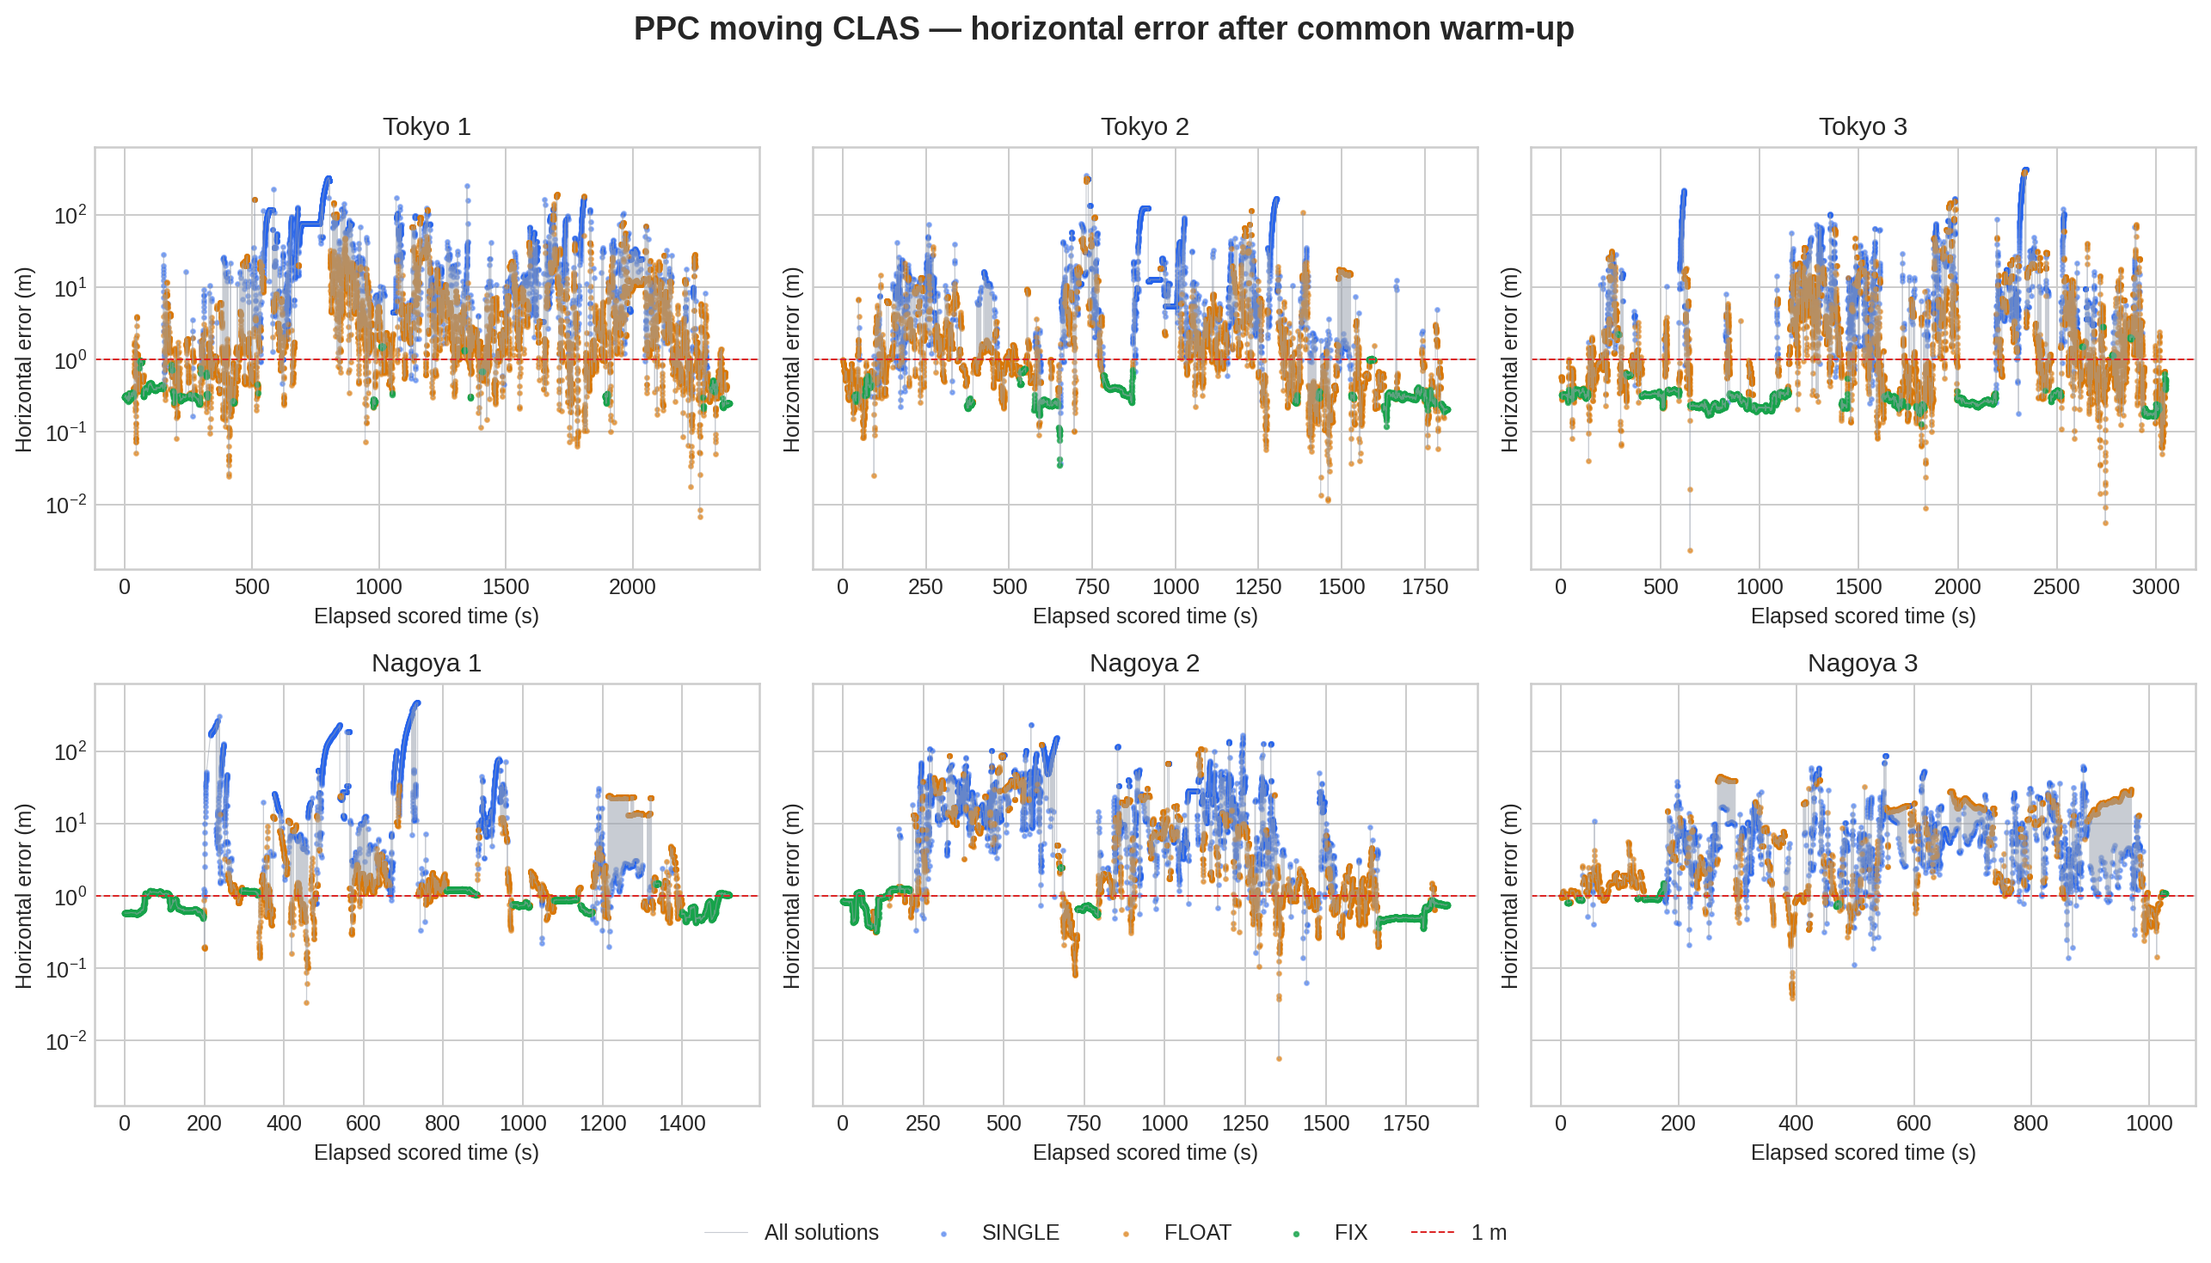
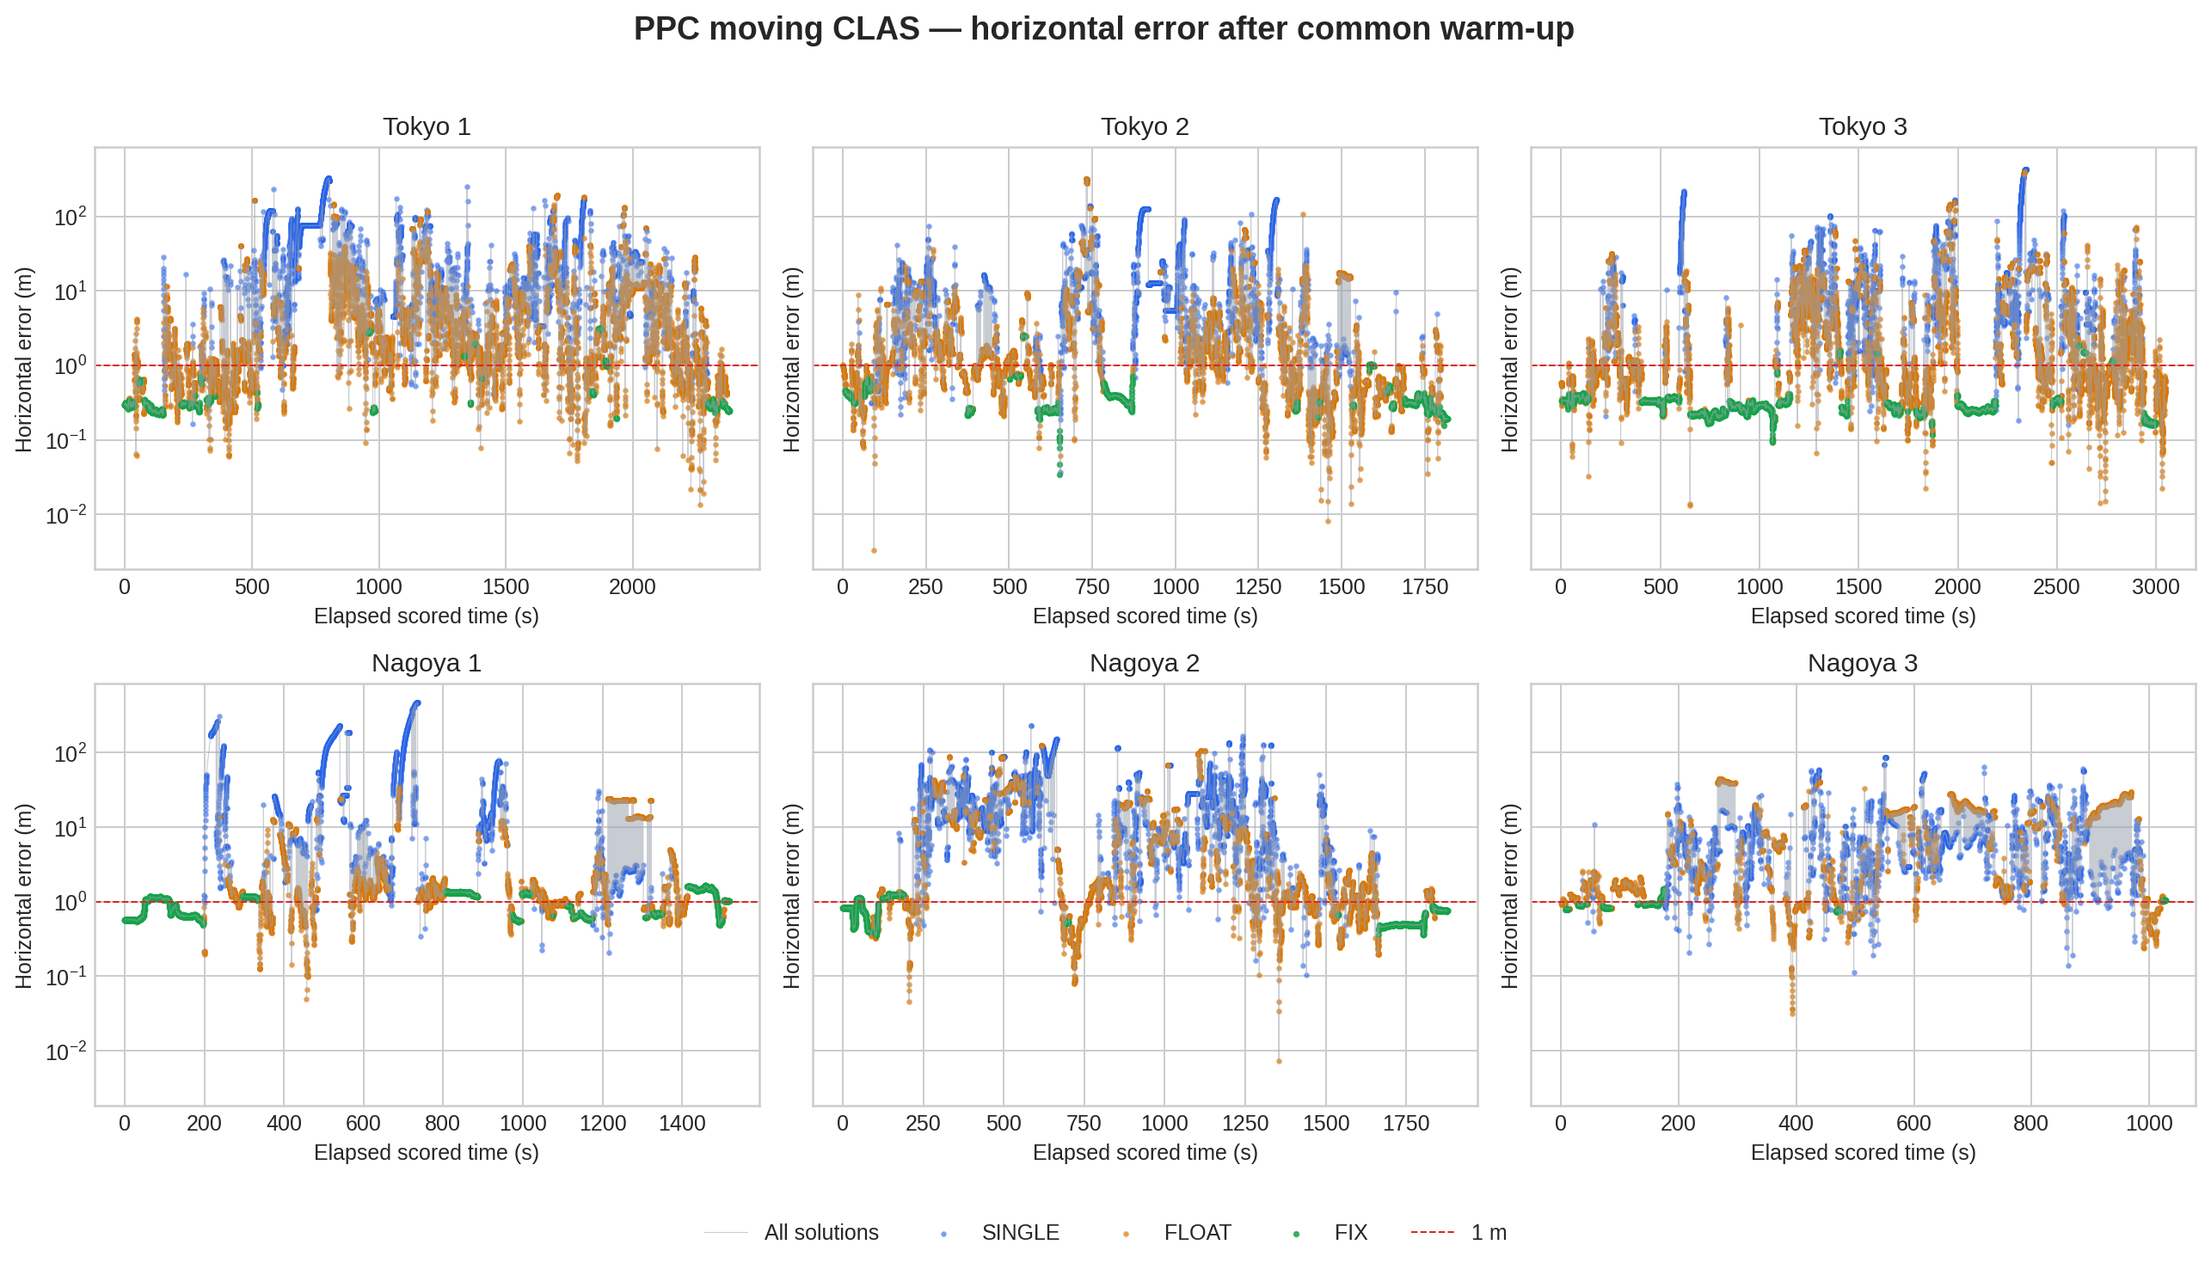
Improve CLAS float recovery from bad seeds

diff --git a/src/algorithms/ppp_clas_epoch.cpp b/src/algorithms/ppp_clas_epoch.cpp
@@ -64,6 +64,10 @@ constexpr double kMrtklibPhaseResidualSigmaGate = 2.0;
 // (pos2-rejdiffpse -> opt.maxdiffp, pos2-poserrcnt; mrtk_ppp_rtk.c:2333-2352)
 constexpr double kMrtklibMaxSppDivergenceM = 10.0;
 constexpr int kMrtklibMaxSppDivergenceEpochs = 5;
+// A candidate that failed valsol-equivalent validation is weaker evidence than
+// an accepted SPP seed. Use it only to recover a catastrophically stale FLOAT
+// state, not to turn ordinary urban tens-of-metres disagreement into a reset.
+constexpr double kClasRejectedMaxdiffRecoveryM = 250.0;
 // Keep a bounded recovery marker after raw maxdiff. It no longer suppresses
 // all AR attempts; recovery candidates receive stricter row-count and ratio
 // validation below.
@@ -95,9 +99,9 @@ constexpr double kClasRejectedOutputTrustedLimitM = 150.0;
 // exactly the gap real MRTKLIB's own gate cannot see either, and is the
 // gap this guard closes. Failing either check marks the seed invalid,
 // which reuses the filter's existing seed-unavailable handling (clock
-// coasting instead of the every-epoch hard clock reseed, and skipping the
-// maxdiffp position/filter reset below) instead of introducing new state
-// machinery.
+// coasting instead of the every-epoch hard clock reseed). The finite rejected
+// candidate remains available only to the counted MRTKLIB maxdiffp recovery
+// below; it is never an ordinary filter seed.
 constexpr std::array<double, 30> kMrtklibChiSquare001Table = {
     10.8, 13.8, 16.3, 18.5, 20.5, 22.5, 24.3, 26.1, 27.9, 29.6,
     31.3, 32.9, 34.5, 36.1, 37.7, 39.3, 40.8, 42.3, 43.8, 45.3,
@@ -922,6 +926,8 @@ PositionSolution PPPProcessor::processEpochCLAS(const ObservationData& obs,
     PositionSolution clas_continuity_output;
     bool has_clas_continuity_output = false;
     bool clas_rejected_seed_output_prepared = false;
+    bool has_clas_validation_rejected_candidate = false;
+    bool clas_seed_validation_failed = false;
     if (clas_mrtklib_parity) {
         const auto original_spp_config = spp_processor_.getSPPConfig();
         auto clas_spp_config = original_spp_config;
@@ -990,6 +996,7 @@ PositionSolution PPPProcessor::processEpochCLAS(const ObservationData& obs,
         const bool clas_seed_dof_failed =
             seed.isValid() && clasSeedLacksRedundancy(seed);
         const PositionSolution clas_validation_rejected_candidate = seed;
+        has_clas_validation_rejected_candidate = seed.isValid();
         // MRTKLIB's estpos() writes the converged current-epoch sol.rr and
         // sol.time before valsol() checks chi-square.  If valsol() then
         // returns false, dynamics mode still enters ppp_rtk_pos() with that
@@ -997,8 +1004,9 @@ PositionSolution PPPProcessor::processEpochCLAS(const ObservationData& obs,
         // The full six-run gate showed that admitting ordinary chi-square
         // failures to the filter helps Tokyo 2 but regresses Nagoya 2 all-
         // solution RMS and FIX rate. Keep both validation failures out of
-        // filter/maxdiff state; a bounded output-only path below can still
-        // publish their current SPP coordinates without changing lifecycle.
+        // ordinary filter admission. The counted maxdiffp path below still
+        // sees the finite candidate, matching MRTKLIB's sol.rr lifecycle;
+        // a bounded output-only path can also publish it without admission.
         const bool clas_masked_spp_admission_failed =
             !seed.isValid() || clas_seed_chi_square_failed ||
             clas_seed_dof_failed;
@@ -1127,7 +1135,7 @@ PositionSolution PPPProcessor::processEpochCLAS(const ObservationData& obs,
         // 4.2 km/17 km rank-collapse jumps; the second prevents a sequence of
         // individually small steps from drifting unboundedly (observed on
         // Nagoya 2).
-        const bool clas_seed_validation_failed =
+        clas_seed_validation_failed =
             clas_seed_chi_square_failed || clas_seed_dof_failed;
         if (clas_seed_validation_failed &&
             has_clas_last_rejected_output_) {
@@ -2113,30 +2121,68 @@ PositionSolution PPPProcessor::processEpochCLAS(const ObservationData& obs,
     // with dynamics on (benchmark clas.toml: dynamics=true + pseudorange_diff);
     // without it the dynamics filter can enter a rejection spiral and coast
     // kilometers away on the velocity states.
+    const PositionSolution* clas_maxdiff_seed = nullptr;
+    bool clas_maxdiff_uses_validation_rejected_candidate = false;
+    if (seed.isValid()) {
+        clas_maxdiff_seed = &seed;
+    } else {
+        double rejected_filter_spp_distance_m =
+            std::numeric_limits<double>::quiet_NaN();
+        if (has_clas_validation_rejected_candidate && filter_initialized_ &&
+            filter_state_.pos_index >= 0 &&
+            filter_state_.pos_index + 2 < filter_state_.state.size()) {
+            rejected_filter_spp_distance_m =
+                (filter_state_.state.segment<3>(filter_state_.pos_index) -
+                 seed.position_ecef)
+                    .norm();
+        }
+        if (ppp_shared::clasMaxdiffCanUseValidationRejectedCandidate(
+                clas_mrtklib_parity, clas_seed_validation_failed,
+                has_clas_validation_rejected_candidate,
+                rejected_filter_spp_distance_m,
+                kClasRejectedMaxdiffRecoveryM)) {
+            // estpos() stores its finite current-epoch solution in sol.rr
+            // before MRTKLIB's valsol() chi-square/redundancy rejection.
+            // Dynamics still reaches the maxdiffp guard with that position,
+            // so cntdiffp can recover a catastrophically stale FLOAT state.
+            // The candidate remains excluded from ordinary filter updates and
+            // cold starts.
+            // Validation only clears seed.status; its finite estpos()-style
+            // coordinates and covariance remain available here.
+            clas_maxdiff_seed = &seed;
+            clas_maxdiff_uses_validation_rejected_candidate = true;
+        }
+    }
     if (ppp_config_.kinematic_mode &&
         ppp_config_.use_clas_osr_filter &&
-        seed.isValid()) {
+        clas_maxdiff_seed != nullptr) {
         const Vector3d float_position =
             filter_state_.state.segment(filter_state_.pos_index, 3);
         const double spp_divergence_m =
-            (float_position - seed.position_ecef).norm();
+            (float_position - clas_maxdiff_seed->position_ecef).norm();
         if (spp_divergence_m > kMrtklibMaxSppDivergenceM) {
             ++clas_kinematic_spp_divergence_count_;
             if (clas_kinematic_spp_divergence_count_ >
                     kMrtklibMaxSppDivergenceEpochs) {
                 if (pppDebugEnabled()) {
                     std::cerr << "[CLAS-KIN-MAXDIFFP] reset to SPP dist="
-                              << spp_divergence_m << "\n";
+                              << spp_divergence_m
+                              << " tow=" << obs.time.tow
+                              << " seed="
+                              << (clas_maxdiff_uses_validation_rejected_candidate
+                                      ? "validation-rejected"
+                                      : "accepted")
+                              << "\n";
                 }
                 filter_state_.state.segment(filter_state_.pos_index, 3) =
-                    seed.position_ecef;
+                    clas_maxdiff_seed->position_ecef;
                 for (int i = 0; i < 3; ++i) {
                     const int idx = filter_state_.pos_index + i;
                     filter_state_.covariance.row(idx).setZero();
                     filter_state_.covariance.col(idx).setZero();
                     const double spp_variance =
-                        seed.position_covariance(i, i) > 0.0
-                            ? seed.position_covariance(i, i)
+                        clas_maxdiff_seed->position_covariance(i, i) > 0.0
+                            ? clas_maxdiff_seed->position_covariance(i, i)
                             : 100.0;
                     filter_state_.covariance(idx, idx) = spp_variance;
                 }
@@ -2167,7 +2213,7 @@ PositionSolution PPPProcessor::processEpochCLAS(const ObservationData& obs,
                         filter_state_.covariance(idx, idx) = 1.0;
                     }
                 }
-                solution.position_ecef = seed.position_ecef;
+                solution.position_ecef = clas_maxdiff_seed->position_ecef;
                 solution.status = SolutionStatus::SPP;
                 solution.ratio = 0.0;
                 solution.num_fixed_ambiguities = 0;

diff --git a/tests/test_ppp.cpp b/tests/test_ppp.cpp
@@ -54,6 +54,21 @@ TEST(PPPClasSeedFde, RejectedOutputRequiresCausalContinuity) {
         true, true, true, 1.0, 0.2, 100.0, 100.0, 151.0, 150.0));
 }
 
+TEST(PPPClasSeedFde, RejectedMaxdiffRequiresParityAndCatastrophicDistance) {
+    EXPECT_TRUE(ppp_shared::clasMaxdiffCanUseValidationRejectedCandidate(
+        true, true, true, 101.0, 100.0));
+    EXPECT_FALSE(ppp_shared::clasMaxdiffCanUseValidationRejectedCandidate(
+        false, true, true, 101.0, 100.0));
+    EXPECT_FALSE(ppp_shared::clasMaxdiffCanUseValidationRejectedCandidate(
+        true, false, true, 101.0, 100.0));
+    EXPECT_FALSE(ppp_shared::clasMaxdiffCanUseValidationRejectedCandidate(
+        true, true, false, 101.0, 100.0));
+    EXPECT_FALSE(ppp_shared::clasMaxdiffCanUseValidationRejectedCandidate(
+        true, true, true, 100.0, 100.0));
+    EXPECT_FALSE(ppp_shared::clasMaxdiffCanUseValidationRejectedCandidate(
+        true, true, true, std::numeric_limits<double>::quiet_NaN(), 100.0));
+}
+
 TEST(PPPClasSeedFde, RecoveryMarkerCountsDownAfterMaxdiffClears) {
     int remaining = 0;
     EXPECT_TRUE(ppp_shared::updateClasSeedArQuarantine(true, 3, remaining));

diff --git a/include/libgnss++/algorithms/ppp_shared.hpp b/include/libgnss++/algorithms/ppp_shared.hpp
@@ -36,6 +36,20 @@ inline bool shouldRetryClasSeedWithFde(bool seed_valid,
              filter_spp_distance_m > max_spp_divergence_m));
 }
 
+/// MRTKLIB writes a finite estpos() candidate to sol.rr before valsol()
+/// rejects it. In dynamics mode that candidate remains available only to the
+/// later counted maxdiffp recovery path; it is not an accepted SPP seed.
+inline bool clasMaxdiffCanUseValidationRejectedCandidate(
+    bool clas_mrtklib_parity,
+    bool validation_failed,
+    bool candidate_valid,
+    double filter_spp_distance_m,
+    double minimum_recovery_distance_m) {
+    return clas_mrtklib_parity && validation_failed && candidate_valid &&
+           std::isfinite(filter_spp_distance_m) &&
+           filter_spp_distance_m > minimum_recovery_distance_m;
+}
+
 /// A validation-rejected SPP candidate is never admitted to the PPP filter,
 /// but a causally continuous candidate is safer SINGLE output than freezing
 /// an old position while the vehicle moves. The tracker is output-only.

diff --git a/README.md b/README.md
@@ -174,13 +174,13 @@ non-FIX continuity fixes; each run has 100% interval coverage and at least
 
 | Run | libgnss++ FIX | MRTKLIB FIX | FIX RMS2D* | MRTKLIB RMS2D† | All RMS2D* | FLOAT RMS2D* | SINGLE RMS2D* | max FIX* | >3 m FIX* |
 |---|---:|---:|---:|---:|---:|---:|---:|---:|---:|
-| Tokyo 1 | **9.702%** | 4.900% | 0.453 m | 0.747 m | 41.713 m | 16.619 m | 80.050 m | 1.533 m | **0** |
-| Tokyo 2 | 19.219% | **21.700%** | 0.387 m | 0.514 m | 28.643 m | 16.130 m | 52.970 m | 1.036 m | **0** |
-| Tokyo 3 | **37.387%** | 7.400% | 0.327 m | 0.801 m | 35.286 m | 19.727 m | 88.586 m | 2.826 m | **0** |
-| Nagoya 1 | **36.605%** | 17.000% | 0.888 m | 1.105 m | 57.258 m | 8.064 m | 119.221 m | 1.501 m | **0** |
-| Nagoya 2 | 23.117% | **23.400%** | 0.783 m | 1.119 m | 25.558 m | 16.478 m | 39.810 m | 2.486 m | **0** |
-| Nagoya 3 | 4.867% | **6.300%** | 0.959 m | 0.318 m | 13.607 m | 13.810 m | 14.152 m | 1.494 m | **0** |
-| **Six-run aggregate** | **23.646%** | — | **0.593 m** | — | **36.796 m** | **16.471 m** | **71.060 m** | **2.826 m** | **0** |
+| Tokyo 1 | **9.541%** | 4.900% | 0.766 m | 0.747 m | 41.866 m | 17.161 m | 80.321 m | 3.136 m | 36 |
+| Tokyo 2 | 16.942% | **21.700%** | 0.521 m | 0.514 m | 25.769 m | 17.067 m | 45.405 m | 2.484 m | **0** |
+| Tokyo 3 | **37.236%** | 7.400% | 0.327 m | 0.801 m | 35.292 m | 19.675 m | 88.663 m | 1.845 m | **0** |
+| Nagoya 1 | **33.448%** | 17.000% | 1.046 m | 1.105 m | 57.253 m | 7.676 m | 119.256 m | 1.638 m | **0** |
+| Nagoya 2 | 17.588% | **23.400%** | 0.745 m | 1.119 m | 25.792 m | 15.812 m | 39.933 m | 1.304 m | **0** |
+| Nagoya 3 | **6.421%** | 6.300% | 0.929 m | 0.318 m | 13.609 m | 13.986 m | 14.180 m | 1.499 m | **0** |
+| **Six-run aggregate** | **22.055%** | — | **0.663 m** | — | **36.525 m** | **16.615 m** | **70.291 m** | **3.136 m** | **36** |
 
 \* libgnss++ precision uses PPC vehicle truth transformed to the antenna phase
 center. † The published MRTKLIB precision uses the unmodified PPC reference,
@@ -188,16 +188,14 @@ so cross-solver precision columns are contextual rather than reference-identical
 
 ![PPC six-run moving CLAS metric comparison](docs/ppc_clas_full_comparison.png)
 
-Across 58,256 scored epochs, native CLAS produced 13,775 FIX epochs. The
-recovery validation requires enough double-difference support and the kinematic
-ratio floor after a `maxdiffp` event; all six runs now have zero FIX epochs above
-3 m while recovering FIX faster than the previous native implementation.
-For validation-rejected SPP epochs, a bounded output-only continuity path now
-uses the current candidate instead of freezing an old SINGLE position. It does
-not feed the candidate into the filter or AR state: all 58,256 statuses and all
-FIX/FLOAT coordinates are unchanged. Aggregate all-solution RMS2D improves
-from 36.991 m to 36.796 m and SINGLE RMS2D from 71.481 m to 71.060 m; FLOAT
-RMS2D remains bit-for-bit unchanged at 16.471 m.
+Across 58,258 scored epochs, native CLAS produced 12,849 FIX epochs. A finite
+SPP candidate rejected by the chi-square/redundancy validation still remains
+excluded from ordinary filter admission, cold starts, and AR. For catastrophic
+FLOAT/SPP disagreement above 250 m only, it can continue the counted MRTKLIB
+`maxdiffp` recovery path. On Tokyo 2 this moves the bad-seed recovery from TOW
+177750.0 to 177747.4 (311.6 m to 5.4 m), 0.8 s before the MRTKLIB recovery at
+177748.2. The six-run all-solution RMS2D is 36.525 m; FLOAT and SINGLE RMS2D are
+16.615 m and 70.291 m respectively.
 
 | Complete trajectories | Horizontal error and FIX epochs |
 |---|---|

diff --git a/docs/ppc_clas_full_table.md b/docs/ppc_clas_full_table.md
@@ -1,12 +1,12 @@
 | Run | Coverage (time / epochs) | libgnss++ FIX | MRTKLIB FIX | libgnss++ FIX RMS2D* | MRTKLIB RMS2D† | libgnss++ FIX p68* | MRTKLIB p68† | All RMS2D* | FLOAT RMS2D* | SINGLE RMS2D* | libgnss++ max FIX* | >3 m FIX* | libgnss++ TTFF | MRTKLIB TTFF |
 |---|---:|---:|---:|---:|---:|---:|---:|---:|---:|---:|---:|---:|---:|---:|
-| Tokyo 1 | 100.000% / 99.966% | 9.702% | 4.900% | 0.453 m | 0.747 m | 0.397 m | 0.244 m | 41.713 m | 16.619 m | 80.050 m | 1.533 m | 0 | 0.000 s | 15.000 s |
-| Tokyo 2 | 100.000% / 99.989% | 19.219% | 21.700% | 0.387 m | 0.514 m | 0.348 m | 0.120 m | 28.643 m | 16.130 m | 52.970 m | 1.036 m | 0 | 34.000 s | 368.000 s |
-| Tokyo 3 | 100.000% / 99.980% | 37.387% | 7.400% | 0.327 m | 0.801 m | 0.316 m | 0.075 m | 35.286 m | 19.727 m | 88.586 m | 2.826 m | 0 | 4.000 s | 28.000 s |
-| Nagoya 1 | 100.000% / 99.974% | 36.605% | 17.000% | 0.888 m | 1.105 m | 1.052 m | 0.402 m | 57.258 m | 8.064 m | 119.221 m | 1.501 m | 0 | 0.000 s | 0.000 s |
-| Nagoya 2 | 100.000% / 99.958% | 23.117% | 23.400% | 0.783 m | 1.119 m | 0.776 m | 0.461 m | 25.558 m | 16.478 m | 39.810 m | 2.486 m | 0 | 0.000 s | 0.000 s |
-| Nagoya 3 | 100.000% / 99.923% | 4.867% | 6.300% | 0.959 m | 0.318 m | 0.932 m | 0.339 m | 13.607 m | 13.810 m | 14.152 m | 1.494 m | 0 | 29.200 s | 9.000 s |
-| **Six-run aggregate** | — | **23.646%** | — | **0.593 m** | — | **0.558 m** | — | **36.796 m** | **16.471 m** | **71.060 m** | **2.826 m** | **0** | — | — |
+| Tokyo 1 | 100.000% / 99.966% | 9.541% | 4.900% | 0.766 m | 0.747 m | 0.306 m | 0.244 m | 41.866 m | 17.161 m | 80.321 m | 3.136 m | 36 | 0.000 s | 15.000 s |
+| Tokyo 2 | 100.000% / 99.989% | 16.942% | 21.700% | 0.521 m | 0.514 m | 0.387 m | 0.120 m | 25.769 m | 17.067 m | 45.405 m | 2.484 m | 0 | 7.000 s | 368.000 s |
+| Tokyo 3 | 100.000% / 99.980% | 37.236% | 7.400% | 0.327 m | 0.801 m | 0.309 m | 0.075 m | 35.292 m | 19.675 m | 88.663 m | 1.845 m | 0 | 4.000 s | 28.000 s |
+| Nagoya 1 | 100.000% / 99.974% | 33.448% | 17.000% | 1.046 m | 1.105 m | 1.186 m | 0.402 m | 57.253 m | 7.676 m | 119.256 m | 1.638 m | 0 | 0.000 s | 0.000 s |
+| Nagoya 2 | 100.000% / 99.958% | 17.588% | 23.400% | 0.745 m | 1.119 m | 0.776 m | 0.461 m | 25.792 m | 15.812 m | 39.933 m | 1.304 m | 0 | 0.000 s | 0.000 s |
+| Nagoya 3 | 100.000% / 99.962% | 6.421% | 6.300% | 0.929 m | 0.318 m | 0.938 m | 0.339 m | 13.609 m | 13.986 m | 14.180 m | 1.499 m | 0 | 28.200 s | 9.000 s |
+| **Six-run aggregate** | — | **22.055%** | — | **0.663 m** | — | **0.508 m** | — | **36.525 m** | **16.615 m** | **70.291 m** | **3.136 m** | **36** | — | — |
 
 \* libgnss++ precision uses PPC vehicle truth transformed to the antenna phase center.
 † Published MRTKLIB v0.4.2 precision uses the unmodified PPC reference point; precision columns are contextual rather than reference-identical.
